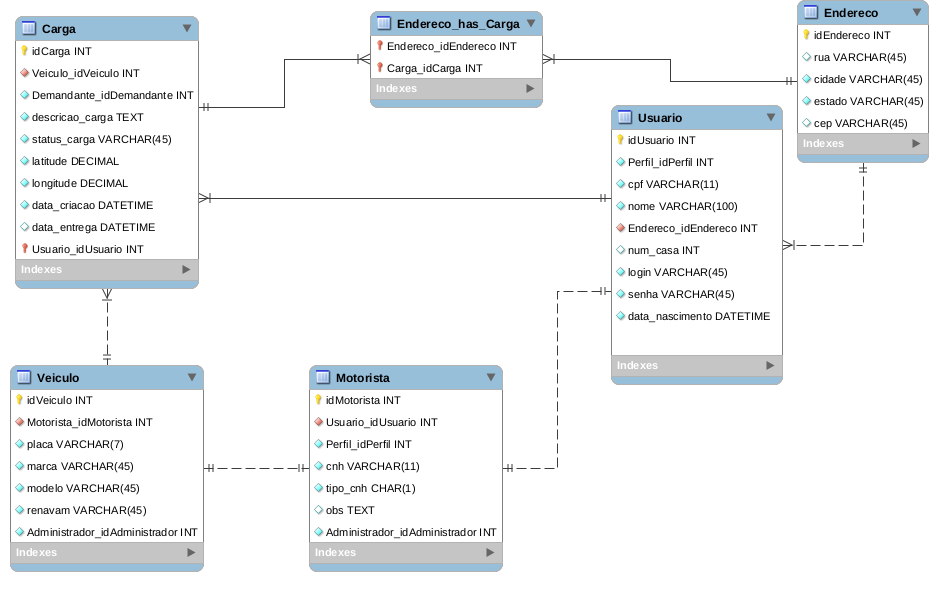
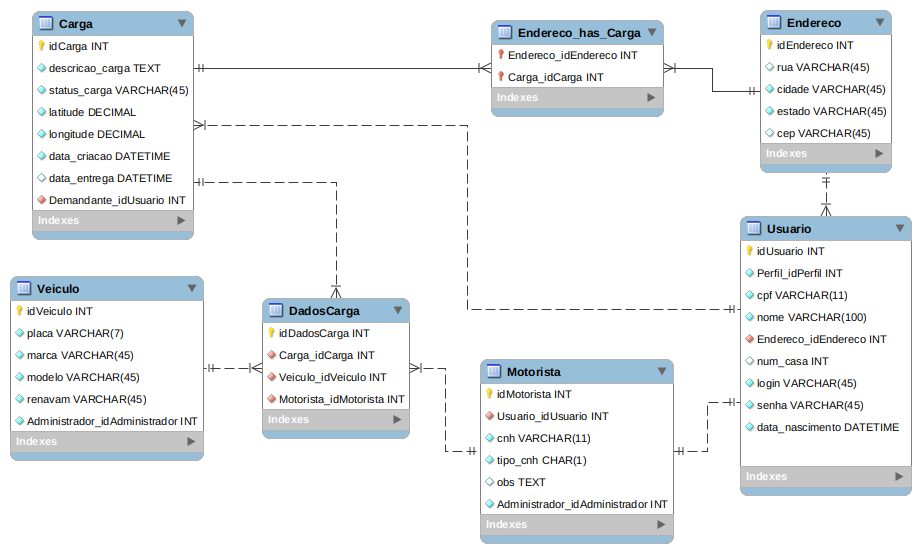
Continuação modal cargas

diff --git a/resources/views/home.blade.php b/resources/views/home.blade.php
@@ -55,11 +55,10 @@
           <div class="modal-body">
             <p>Veículo:</p>
             <select id="comboVeiculos" class="form-control"></select>
+            <p>Motoristas:</p>
+            <select id="comboMotoristas" class="form-control"></select>
             <p>Descrição:</p>
-            <textarea id="story" name="story"
-            rows="5" cols="33" class="form-control">
-                
-            </textarea>            
+            <textarea id="story" name="story" rows="5" cols="33" class="form-control"></textarea>            
           {{-- Fim conteúdo do modal --}}
           </div>
           <div class="modal-footer">
@@ -124,8 +123,9 @@ function saveLatLon(pos) {
 </script>  
   
 {{-- Busca dados no banco de dados, pela rota /moda que acessa o controler HomeController e a função dadosModal --}}
-<script type="text/javascript">    
-$.getJSON('/modal', function(data){
+<script type="text/javascript">  
+  // dados de veiculos
+$.getJSON('/modalVeiculo', function(data){
     for (i = 0; i < data.length; i++) {
         var _htmlOptions = "";
         console.log("Data: " + data[i]['placa']);
@@ -133,6 +133,17 @@ $.getJSON('/modal', function(data){
         $("#comboVeiculos").append(_htmlOptions);  
     }     
 });
+
+  // dados de motoristas
+  $.getJSON('/modalMotorista', function(data){
+    for (i = 0; i < data.length; i++) {
+        var _htmlOptions = "";
+        console.log("Data: " + data[i]['placa']);
+        _htmlOptions += "<option val='"+data[i]['id']+"'>"+data[i]['name']+"</option>";
+        $("#comboMotoristas").append(_htmlOptions);  
+    }     
+});
+
 </script>
 
 {{-- scrips maps --}}

diff --git a/app/Http/Controllers/HomeController.php b/app/Http/Controllers/HomeController.php
@@ -4,6 +4,7 @@ namespace App\Http\Controllers;
 
 use App\Carga;
 use App\Veiculo;
+use App\Motorista;
 use Illuminate\Http\Request;
 use Illuminate\Support\Facades\DB;
 
@@ -58,20 +59,19 @@ class HomeController extends Controller
 
     }
 
-    // lista dados para o modal
-    public function dadosModal()
+    // lista dados de veiculos para o modal
+    public function dadosModalVeiculo()
     {
-        // $veiculos = new Veiculo();
-
-        // $veiculos = DB::table('veiculos')
-        //    ->select('*');
-
         $veiculos = DB::table('veiculos')->where('deleted', 'false')->get();
-        // $veiculos = Veiculo::all()->where('deleted', 'false');
-
         return json_encode($veiculos);
+    }
 
-        //  ->join('tabela_de_join'....);
+    public function dadosModalMotorista(){
+        //relacionamento entre as tabelas motoristas e users (pela id do users)
+        $motoristas = DB::table('motoristas')
+        ->join('users', 'users.id', '=', 'motoristas.user_id')
+        ->get()->where('deleted', 'false');
+        return json_encode($motoristas);
     }
 
 }

diff --git a/database/migrations/2019_11_11_220127_dadoscarga.php b/database/migrations/2019_11_11_220127_dadoscarga.php
@@ -13,7 +13,24 @@ class Dadoscarga extends Migration
      */
     public function up()
     {
-        //
+        Schema::create('dadoscargas', function (Blueprint $table) {
+            $table->increments('id');
+
+            //Relação dadoscargas e as cargas
+            $table->integer('carga_id')->unsigned();
+            $table->foreign('carga_id')->references('id')->on('cargas')->onDelete('cascade');                           
+            
+            //Relação veiculos e as cargas
+            $table->integer('veiculo_id')->unsigned();
+            $table->foreign('veiculo_id')->references('id')->on('veiculos')->onDelete('cascade');                           
+
+            //Relação motoristas e as cargas
+            $table->integer('motoristas_id')->unsigned();
+            $table->foreign('motoristas_id')->references('id')->on('motoristas')->onDelete('cascade');                           
+
+            $table->timestamps();
+            
+        });
     }
 
     /**

diff --git a/routes/web.php b/routes/web.php
@@ -37,7 +37,8 @@ Route::group(['middleware' => ['auth']], function(){
     Route::get('/motorista/{id}/logicalDeletion', 'MotoristaController@logicalDeletion');
 
     //Modal
-    Route::get('/modal', 'HomeController@dadosModal')->name('modal');
+    Route::get('/modalVeiculo', 'HomeController@dadosModalVeiculo')->name('modalVeiculo');
+    Route::get('/modalMotorista', 'HomeController@dadosModalMotorista')->name('modalMotorista');
 
 });
 
